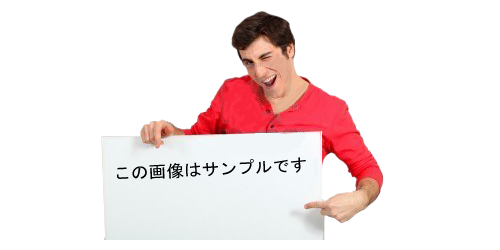
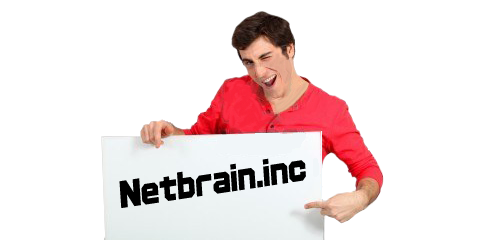
change Top-Image and fix some message image.

Changed region(s): [[0.24, 0.616, 0.63, 0.84]]

diff --git a/css/default.css b/css/default.css
@@ -178,14 +178,14 @@ hr {
 	position: relative;
 	
 /* full-sized screen */
-	background: url(../img/bg.jpg) no-repeat center center;
+	background: url(../img/bg.png) no-repeat center center;
 	-webkit-background-size: cover;
 	-moz-background-size: cover;
 	-o-background-size: cover;
 	background-size: cover;
 	
 /* only IE 8*/
-	background: url(../img/bg.jpg) no-repeat top center \9;
+	background: url(../img/bg.png) no-repeat top center \9;
 }
 
 /*-----------------------------*
@@ -219,7 +219,7 @@ hr {
 }
 
 #content1 img{
-	padding: 10px;
+	padding: 17.5px;
 	float:right;
 }
 

diff --git a/index.html b/index.html
@@ -432,7 +432,7 @@ Description: Nothing special.
 		<ul class="navi clearfix">
 			<li><a data-toggle="modal" href="#Company-page">お問い合わせ</a></li>
 			<li><a data-toggle="modal" href="#Recriut-page">リクルート</a></li>
-			<li><a data-toggle="modal" href="#Service-page">プライバシーポリシー</a></li>
+			<li><a data-toggle="modal" href="#Service-page">企業方針</a></li>
 			<li><a data-toggle="modal" href="#Company-page">アクセスマップ</a></li>
 		</ul>
 
